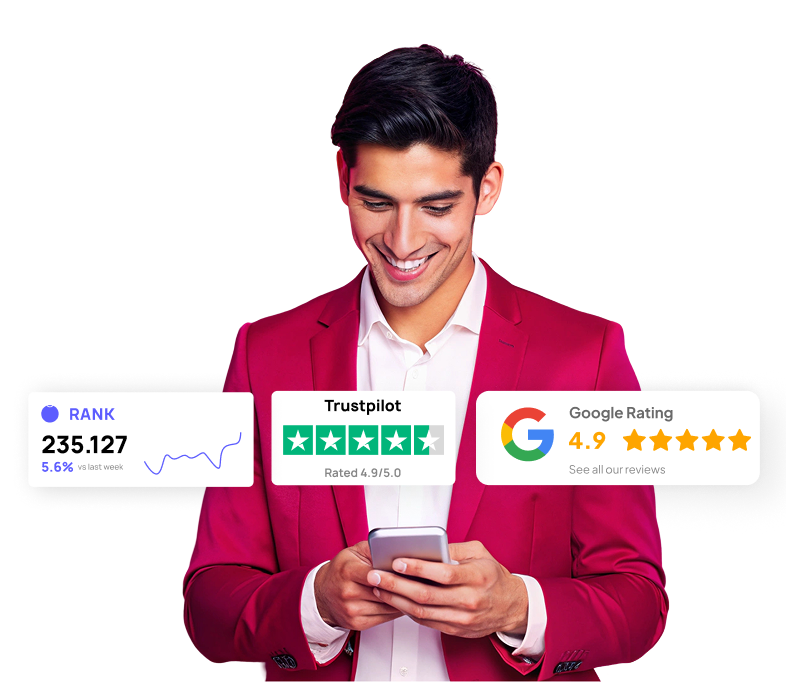
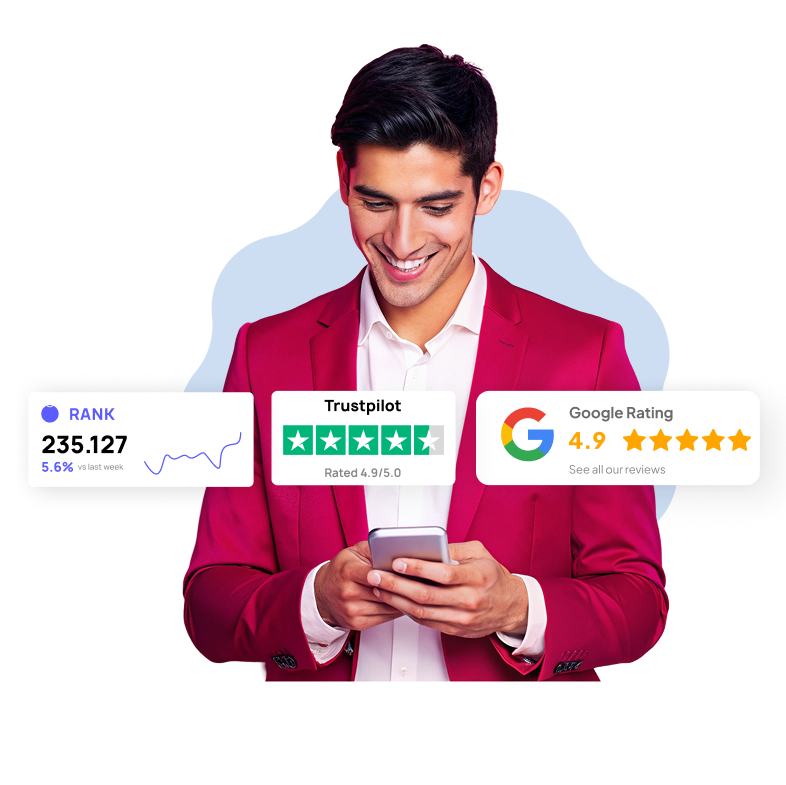
refactor: update reviews and whatisrevuiai sections

diff --git a/src/components/landing/ReviewsSection.tsx b/src/components/landing/ReviewsSection.tsx
@@ -1,97 +1,46 @@
+import Image from "next/image";
 import React from "react";
+
+const items = [
+  "90% of customers check Google before visiting a shop or choosing a service.",
+  "Negative reviews can damage trust overnight.",
+  "Without the right keywords, your business stays invisible.",
+];
 
 export default function ReviewsSection() {
   return (
-    <section className="relative bg-white py-16 overflow-hidden">
-      {/* Background image */}
-      <div
-        className="absolute inset-0 bg-cover bg-center bg-no-repeat opacity-10"
-        style={{
-          backgroundImage: "url('/reviews-bg.png')",
-        }}
+    <section className="my-16 flex flex-col lg:flex items-center gap-x-10">
+      <Image
+        src={"/landing/reviews.png"}
+        className="w-full h-full"
+        width={500}
+        height={392}
+        alt="trustpilot rating 4.9/5.0, google rating 4.9/5.0"
       />
 
-      <div className="relative max-w-md mx-auto px-4">
-        {/* Google Rating Section */}
-        <div className="bg-white rounded-lg p-6 mb-4 shadow-lg">
-          <div className="flex items-start justify-between mb-4">
-            <div className="flex-1">
-              <div className="flex items-center gap-2 mb-2">
-                <div className="w-3 h-3 bg-[#34A853] rounded-full"></div>
-                <div className="w-3 h-3 bg-[#34A853] rounded-full"></div>
-                <div className="w-3 h-3 bg-[#34A853] rounded-full"></div>
-              </div>
-              <p className="text-xs text-gray-500 mb-1">Google Rating</p>
-              <div className="flex items-center gap-2">
-                <span className="text-2xl font-bold text-orange-500">4.9</span>
-                <div className="flex gap-1">
-                  {[...Array(5)].map((_, i) => (
-                    <div
-                      key={i}
-                      className="w-4 h-4 bg-orange-500 rounded-sm flex items-center justify-center"
-                    >
-                      <span className="text-white text-xs">★</span>
-                    </div>
-                  ))}
-                </div>
-              </div>
-            </div>
-          </div>
-          <p className="text-xs text-gray-400">See all our reviews</p>
-        </div>
-
-        {/* Trustpilot Section */}
-        <div className="bg-white rounded-lg p-6 shadow-lg">
-          <div className="flex items-center justify-between mb-4">
-            <div className="flex items-center gap-3">
-              <img
-                src="/trustpilot-logo.svg"
-                alt="Trustpilot"
-                className="h-4"
+      <div className="max-w-md px-8 flex flex-col gap-4">
+        <h2 className="text-[32px] font-medium">
+          Why Your Online Presence Matters
+        </h2>
+        <p className="font-light text-base">
+          Your online presence is essential for making sure that your potential
+          clients are reaching you.
+        </p>
+        <ul className="flex flex-col gap-6">
+          {items.map((item) => (
+            <li className="flex items-start gap-3" key={item}>
+              <Image
+                src={"/landing/star.svg"}
+                width={19}
+                height={17}
+                alt="star"
+                role="presentation"
+                className="pt-1"
               />
-              <div className="flex gap-1">
-                {[...Array(5)].map((_, i) => (
-                  <div
-                    key={i}
-                    className="w-3 h-3 bg-[#00B57A] rounded-full"
-                  ></div>
-                ))}
-              </div>
-            </div>
-            <span className="text-xs text-gray-400">Rated 4.9/5.0</span>
-          </div>
-
-          {/* Pie Chart Placeholder */}
-          <div className="flex items-center justify-between">
-            <div className="relative w-16 h-16">
-              <svg viewBox="0 0 36 36" className="w-full h-full">
-                <path
-                  d="M18 2.0845 a 15.9155 15.9155 0 0 1 0 31.831 a 15.9155 15.9155 0 0 1 0 -31.831"
-                  fill="#5D5DFF"
-                  stroke="none"
-                />
-                <path
-                  d="M18 2.0845 a 15.9155 15.9155 0 0 1 0 31.831 a 15.9155 15.9155 0 0 1 0 -31.831"
-                  fill="none"
-                  stroke="#E0E0E0"
-                  strokeWidth="2"
-                  strokeDasharray="8, 100"
-                />
-              </svg>
-              <div className="absolute inset-0 flex items-center justify-center">
-                <span className="text-xs font-medium text-gray-800">Rank</span>
-              </div>
-            </div>
-
-            <div>
-              <div className="text-lg font-bold text-gray-900">235.127</div>
-              <div className="flex items-center gap-1 text-xs text-[#5D5DFF]">
-                <span>+5.6%</span>
-                <span className="text-gray-400">vs last week</span>
-              </div>
-            </div>
-          </div>
-        </div>
+              <p className="text-[#B1B9FF] font-light text-base">{item}</p>
+            </li>
+          ))}
+        </ul>
       </div>
     </section>
   );

diff --git a/src/components/landing/WhatIsReviuAI.tsx b/src/components/landing/WhatIsReviuAI.tsx
@@ -1,19 +1,32 @@
 import React from "react";
 
+const features = [
+  "Smart Review Requests",
+  "AI-Powered Responses",
+  "Reputation Protection",
+  "Image Sharing for Reviews",
+  "Centralised Dashboard",
+];
+
 export default function WhatIsReviuAI() {
   return (
-    <section className="bg-white py-16 px-4">
+    <section className="my-14 px-8 flex flex-col items-center justify-center">
       <div className="max-w-md mx-auto">
-        <h2 className="text-2xl font-semibold text-gray-900 mb-6 text-center">
+        <h2 className="text-2xl font-medium mb-6 text-left italic">
           What is ReviuAI?
         </h2>
 
-        <p className="text-gray-600 text-base leading-7 mb-12 text-justify">
+        <p className="text-[20px] leading-[40px] font-extralight">
           ReviuAI is an AI-powered Google Review System that helps your business
           stand out online. By suggesting keyword-rich, authentic reviews, it
           enhance your online presence, boosts visibility, and builds stronger
           customer trust.
         </p>
+      </div>
+      <div className="grid grid-cols-2 lg:grid-cols-5 lg:text-center font-medium text-[21px] pt-10 gap-8">
+        {features.map((feature) => (
+          <span key={feature}>{feature}</span>
+        ))}
       </div>
     </section>
   );

diff --git a/src/app/landing/page.tsx b/src/app/landing/page.tsx
@@ -1,7 +1,6 @@
 import React from "react";
 import HeroSection from "@/components/landing/HeroSection";
 import WhatIsReviuAI from "@/components/landing/WhatIsReviuAI";
-import FeaturesSection from "@/components/landing/FeaturesSection";
 import ReviewsSection from "@/components/landing/ReviewsSection";
 import OnlinePresenceSection from "@/components/landing/OnlinePresenceSection";
 import HowToReviewSection from "@/components/landing/HowToReviewSection";
@@ -14,11 +13,10 @@ import Header from "@/components/landing/Header";
 
 export default function LandingPage() {
   return (
-    <main className="min-h-screen relative bg-black">
+    <main className="min-h-screen relative bg-black text-white">
       <Header />
       <HeroSection />
       <WhatIsReviuAI />
-      <FeaturesSection />
       <ReviewsSection />
       <OnlinePresenceSection />
       <HowToReviewSection />
